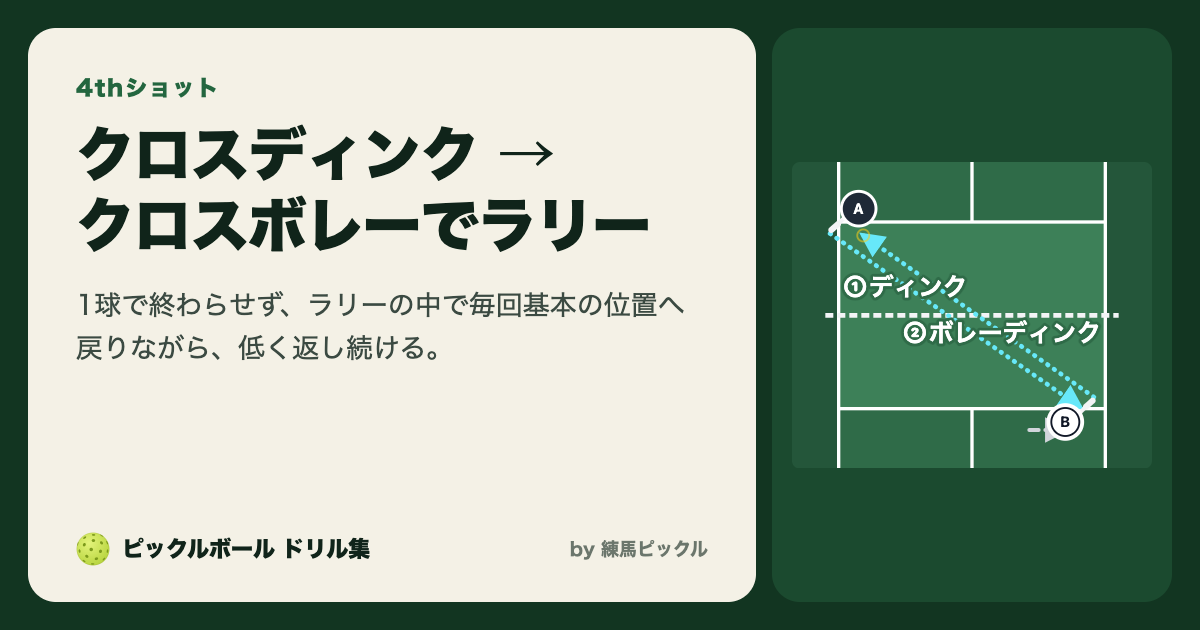
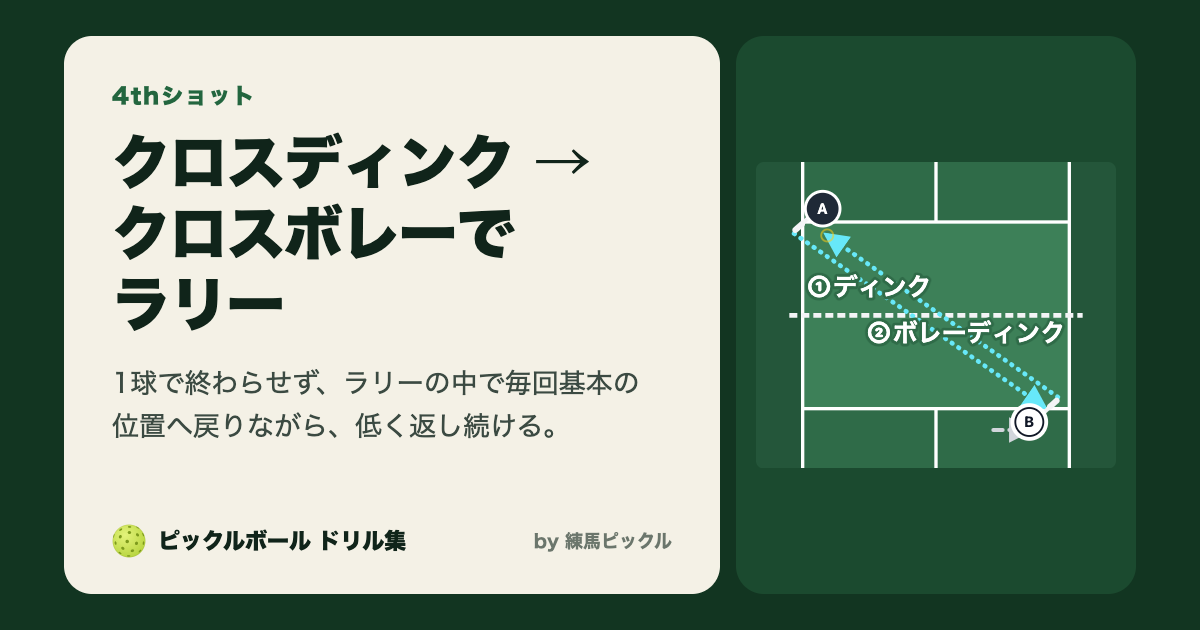
Share previews: wider outer margins so LINE's side crop no longer cuts the tiles
Claude-Session: https://claude.ai/code/session_013HpVCq95JLREtWQF64J4S6

Changed region(s): [[0.0, 0.0302, 0.9867, 0.9651], [0.7708, 0.2714, 0.8325, 0.3317]]

diff --git a/src/config/og.ts b/src/config/og.ts
@@ -10,4 +10,10 @@ export const og = {
 	paper: '#f4f1e6',
 	ink: '#10241a',
 	lime: '#c6df4a',
+	/**
+	 * 画像の外側の余白。LINE はカードの形に合わせて左右を少し切る（1200px 幅で片側40px ほど）。
+	 * X は上下を少し切ることがある。タイルが切れないように、余白をそれより広く取る。
+	 */
+	padX: '64px',
+	padY: '36px',
 };

diff --git a/docs/decisions.md b/docs/decisions.md
@@ -91,3 +91,4 @@
 - 共通の共有画像の左下の一文を「練習会で使うドリルと練習メニュー」から「アニメーションで理解する練習方法」に変えた。前の文は題名の「ドリル集」を言い換えただけで、新しい情報がなかったため。文言は書き手が決めた。
 - 共通の共有画像のコートに、クロスのディンクを打ち合う A と B を立たせた（2人ともキッチンラインのすぐ後ろ、自分の半面の真ん中）。線だけでは何の飾りか分かりにくく、ドリルの図と同じ人の絵があると、練習の図だと伝わるため。サーブとリターンは、人がコートの外に立ち、コートを縮めないと収まらないのでやめた。人はドリルの図の1.5倍で描く（画像の中ではコートが小さく見えるため）。
 - トップページと練習メニューの説明文（メタ情報）を、共有画像の文言「アニメーションで理解する練習方法」に合わせて書き直した（書き手が3案から選んだ）。画像と説明文で言うことをそろえるため。
+- 共有画像の外側の余白を、左右 64px・上下 36px に広げた（src/config/og.ts の padX・padY）。LINE はカードの形に合わせて左右を少し切り（1200px 幅で片側40px ほど）、余白が 28px のときはタイルの端が切れていたため（書き手が LINE で確かめた）。
